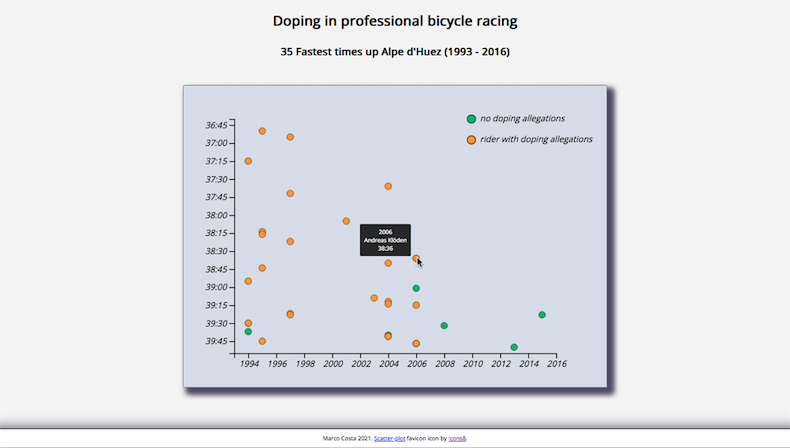
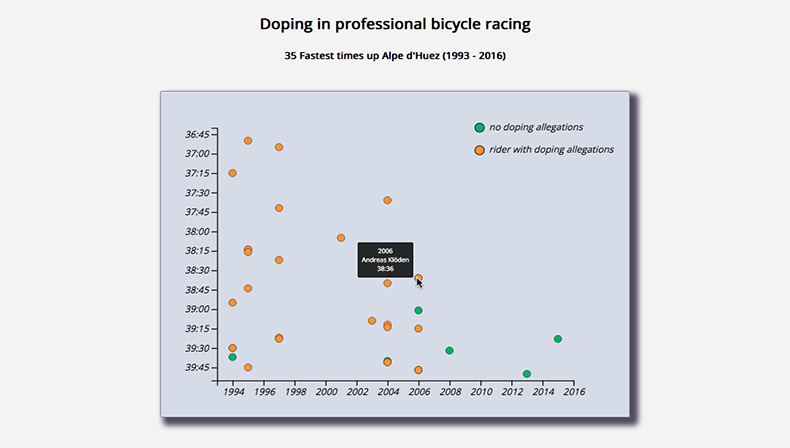
Add D3 project#2 - scatterplot

diff --git a/js/projectsData.js b/js/projectsData.js
@@ -1,4 +1,14 @@
 export const projects = [
+  { // D3 - scatterplot
+    projectUrl: "https://marcocosta1618.github.io/D3-scatterplot/",
+    projectCodeUrl: "https://github.com/marcocosta1618/D3-scatterplot",
+    imgWebp: "./assets/images/d3-scatterplot.webp",
+    imgPng: "./assets/images/d3-scatterplot.png",
+    imgAlt: "D3 scatterplot (Doping in professional bicycle racing)",
+    p: `Data visualization with a scatterplot in <a href="https://d3js.org/"
+        rel="noreferrer" target="_blank">D3.js</a> (doping in professional bicycle racing - Alpe d'Huez times, 1993 - 2016).`,
+    technologies: ["d3", "sass"]
+  },
   { // D3 - bar chart
     projectUrl: "https://marcocosta1618.github.io/D3-barchart/",
     projectCodeUrl: "https://github.com/marcocosta1618/D3-barchart",
